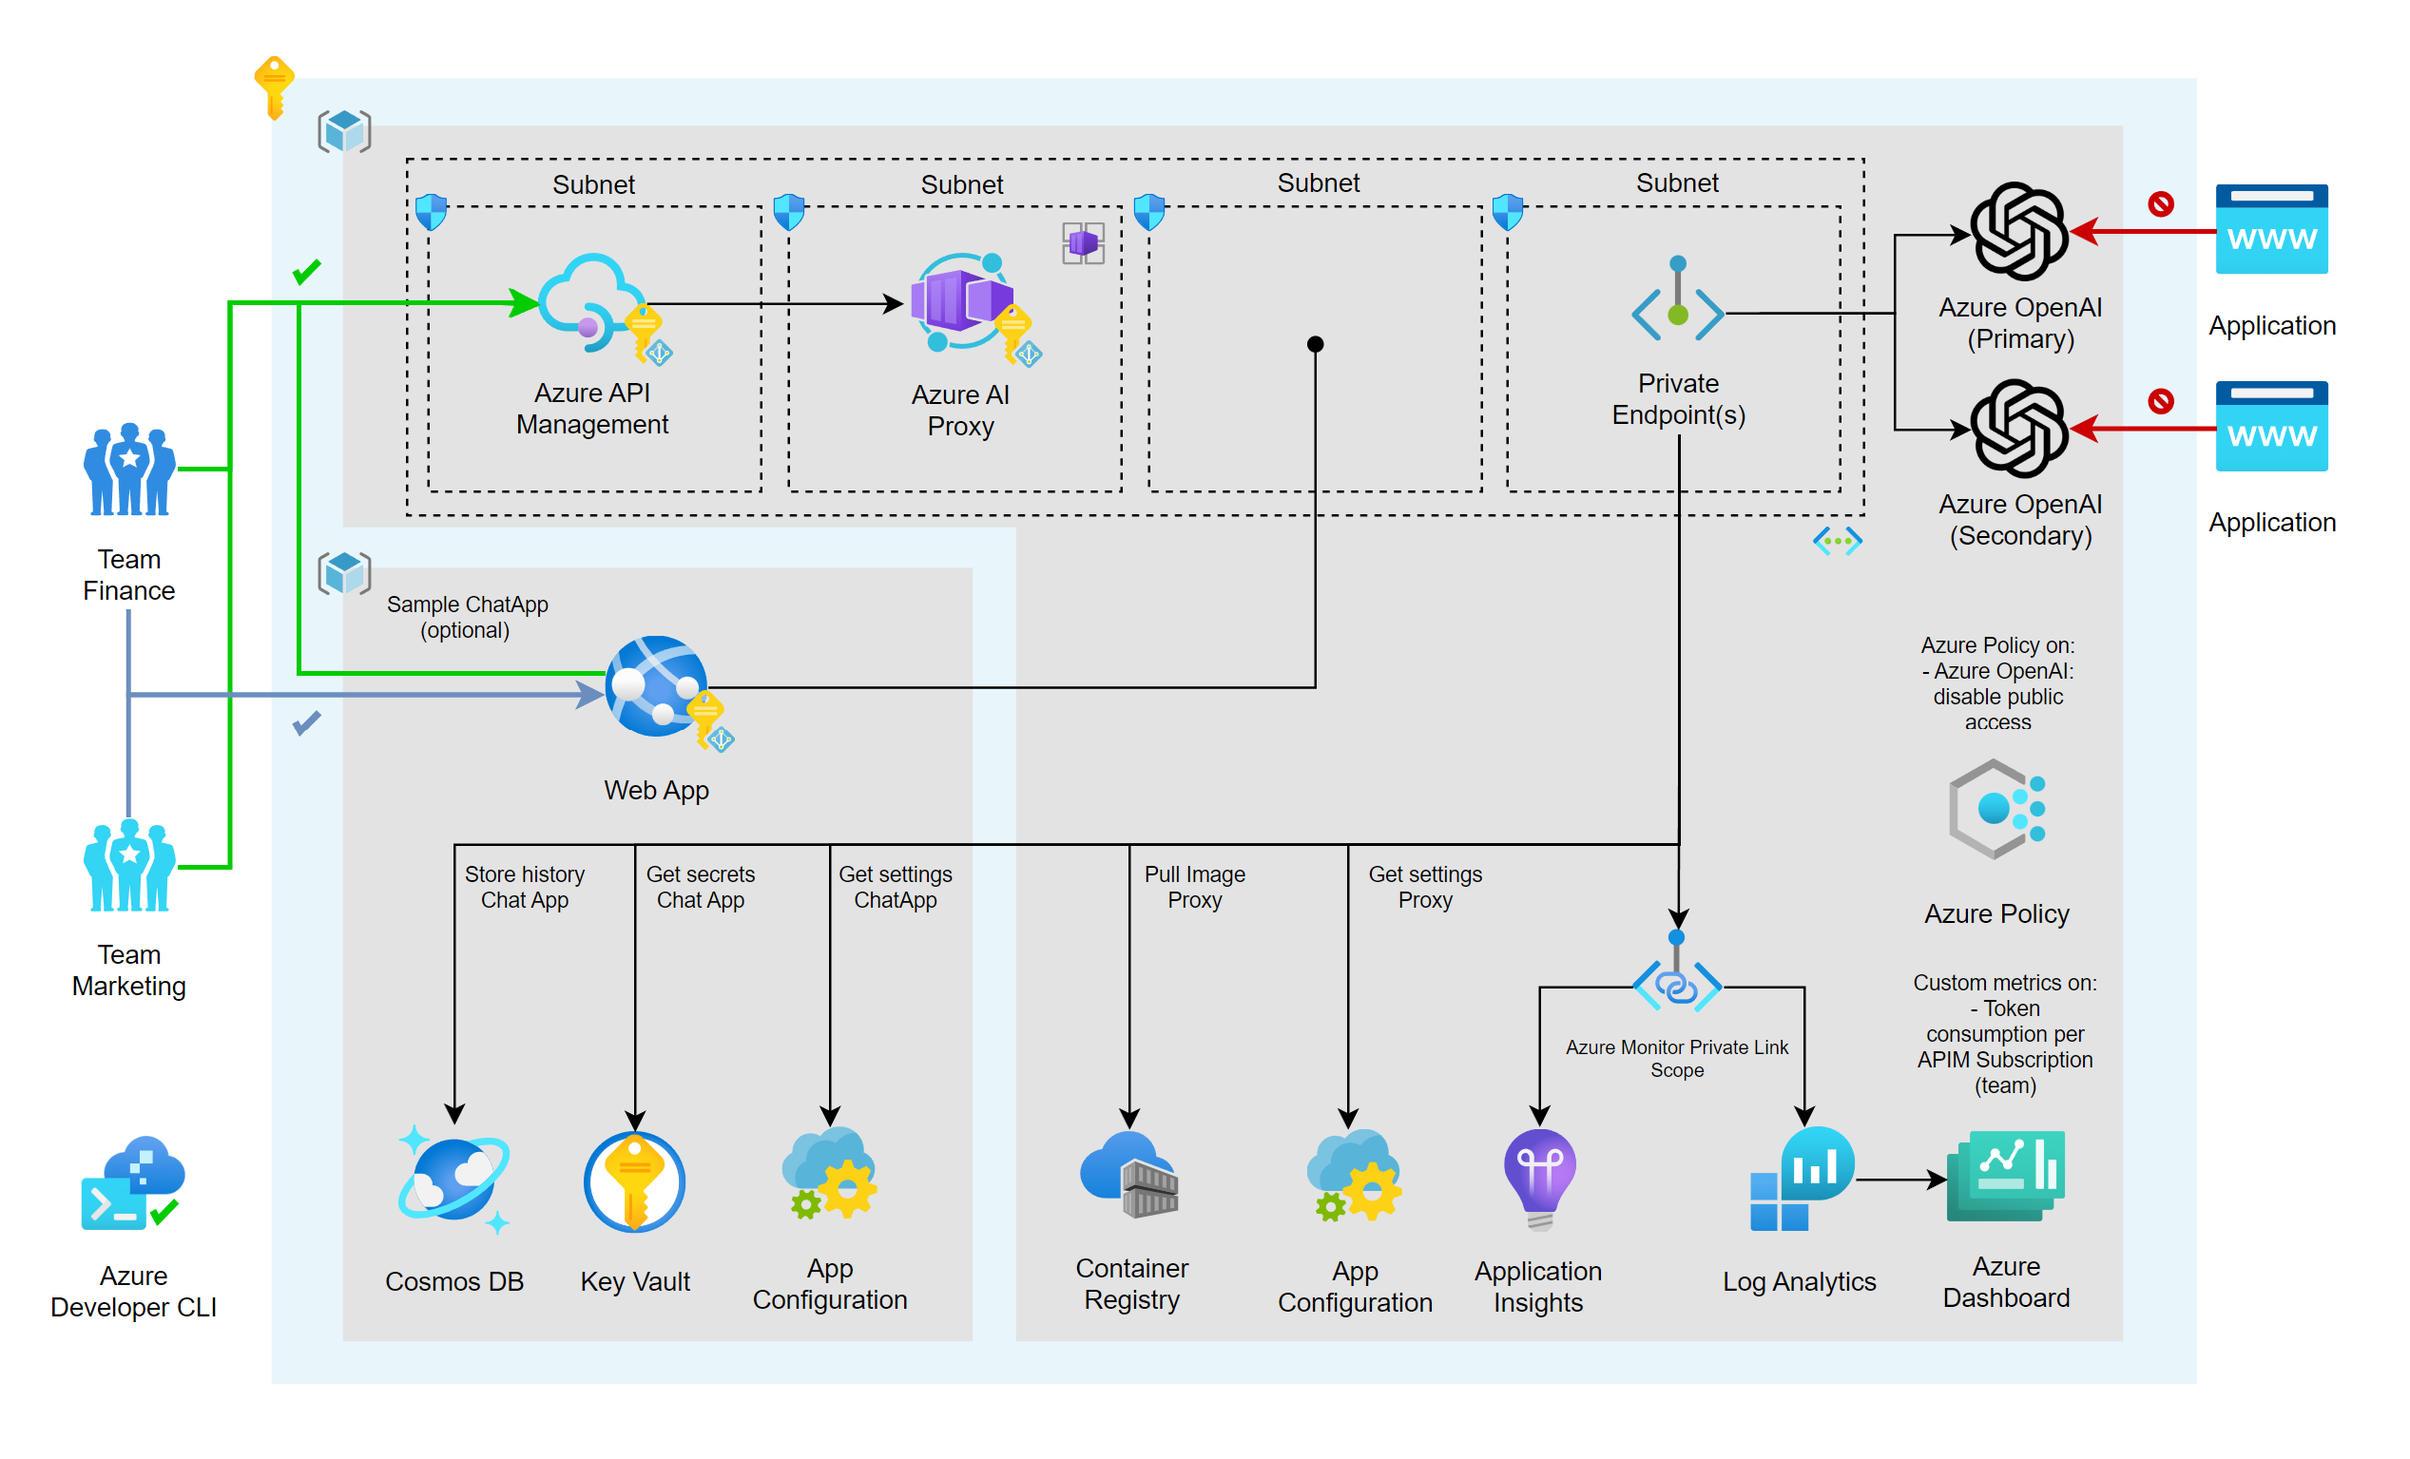
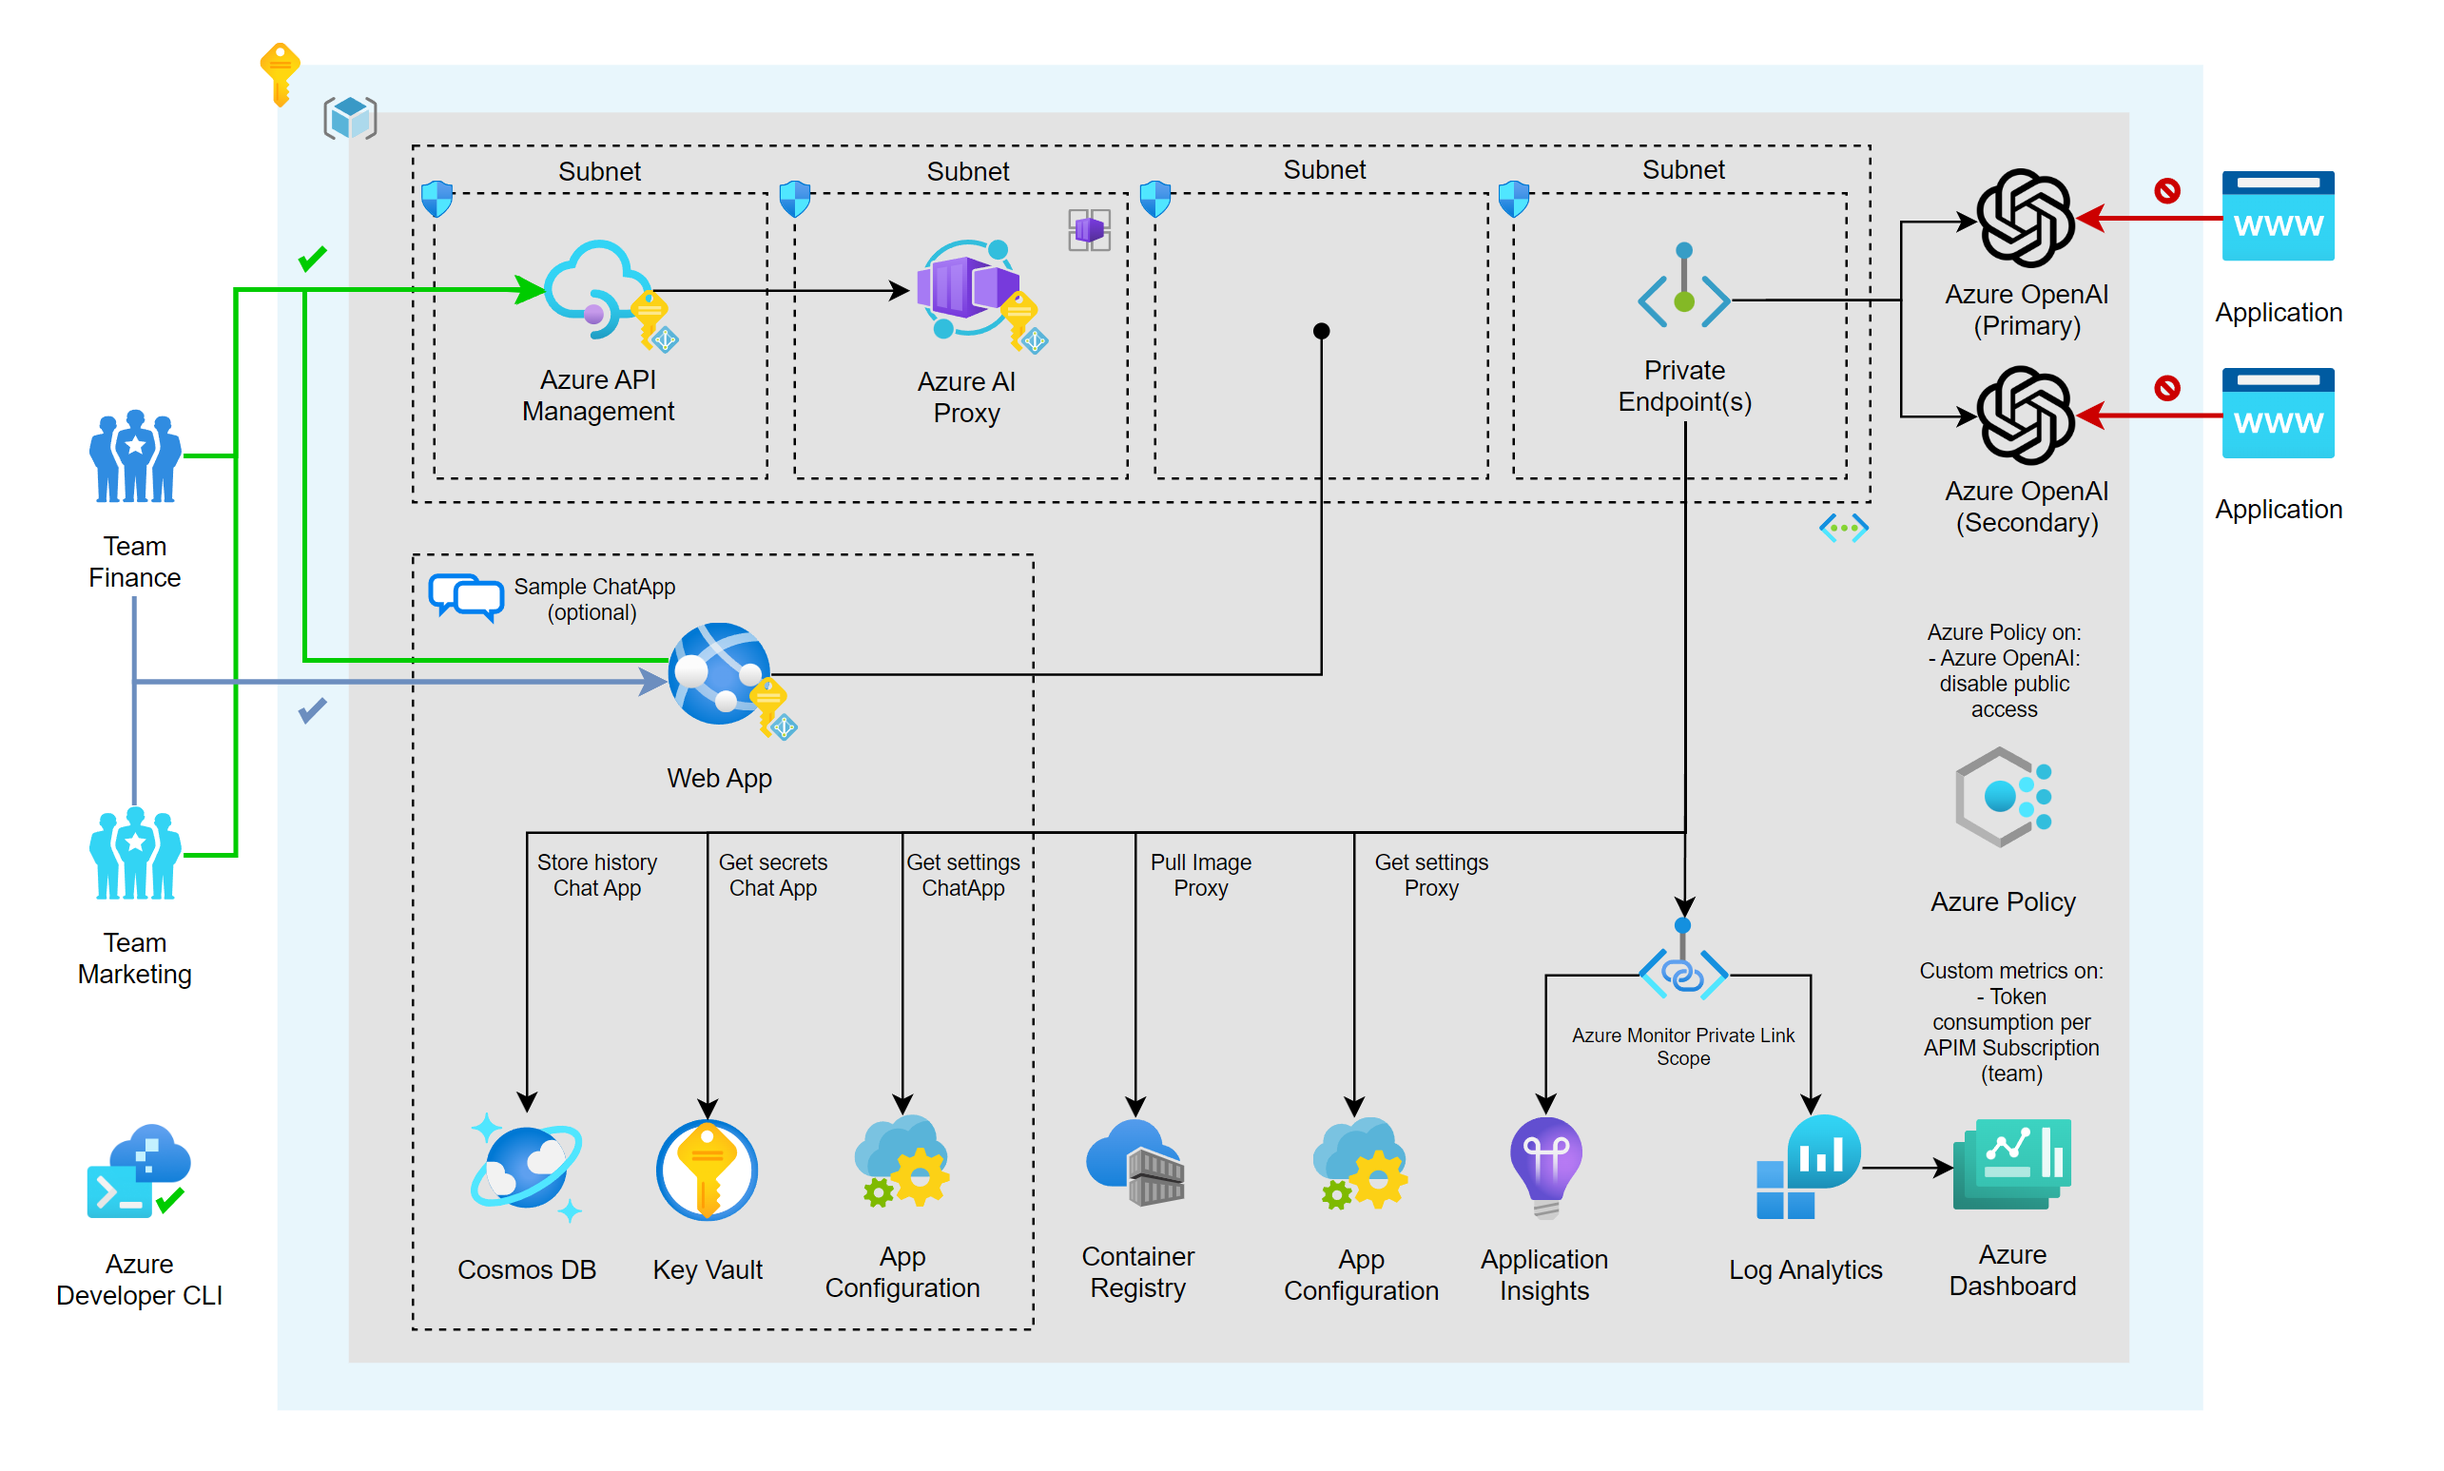
Adjusted documentation and arch for Sample ChatApp

diff --git a/README.md b/README.md
@@ -71,9 +71,11 @@ Read more: [Architecture in detail](#architecture-in-detail)
 ### Prerequisites
 
 - [Azure Developer CLI](https://docs.microsoft.com/en-us/azure/developer/azure-developer-cli/)
+- [Azure CLI](https://docs.microsoft.com/en-us/cli/azure/install-azure-cli)
 - [.NET 8.0 SDK](https://dotnet.microsoft.com/download/dotnet/8.0)
 - [Docker Desktop](https://www.docker.com/products/docker-desktop)
-- [Node.js](https://nodejs.org/en/download/)
+- [Node.js](https://nodejs.org/en/download/) v18.17 or higher
+- [jq](https://jqlang.github.io/jq/download/) required on Mac and Linux
 
 ### 1. Initialize a new `azd` environment
 
@@ -114,7 +116,7 @@ In the azd template, we automatically set an environment variable for your curre
 azd up
 ```
 
-It will prompt you to login, pick a subscription, and provide a location (like "eastus"). We've added a extra conditional parameter to deploy the Sample ChatApp, for demo-ing purposes.
+It will prompt you to login, pick a subscription, and provide a location (like "eastus"). We've added an extra conditional parameter to deploy the Sample ChatApp, for demo-ing purposes.
 
 ![enterprise-azureai](docs/images/deploy_chatapp.png)
 Read more: [Sample ChatApp](#sample-chatapp)
